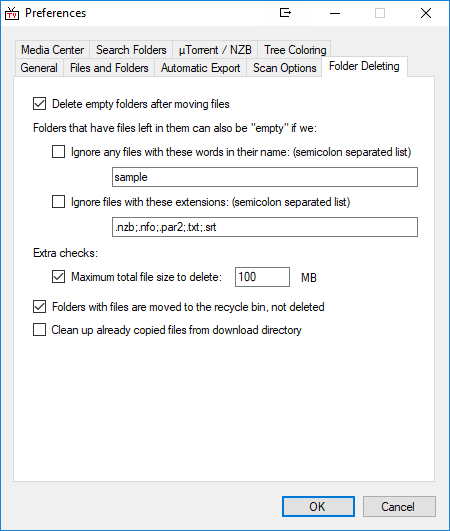
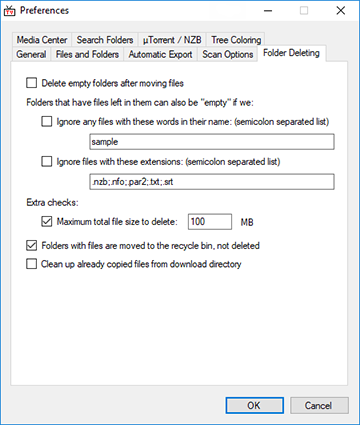
Added Folder Deleting to options.md

diff --git a/options.md b/options.md
@@ -183,6 +183,20 @@ Ticking the "TXT" box in the "All Shows" section of the panel will save a TXT fi
 [Return to Preferences](#preferences)&nbsp;&#9670;&nbsp;[Return to Top]()
 
 ### Folder Deleting
+![Preferences>Options - The Folder Delete tab](images/options/preferences-folder-del-01.png){:.pic-l}
+This tab is all about TV Rename tidying up after itself.
+
+When downloading video from the internet its quite common to get .nfo files, screen grabs, sample video, text-art files and the like bundled with the download.
+
+TV Rename automatically takes care of the video file and any others you media play may require, renaming them and copying or moving them to your "Media Library".
+
+The settings in this tab take care of the rest.
+
+The flow through this tab is pretty self explanatory, start by ticking the "Delete empty folders..." box to enable the action. The other settings are fairly obvious, tick the boxes and modify the text as required.
+
+If you use the copy option to update your library then ticking the "Clean up already copied..." box will delete the source files after the copy is complete.
+
+*Default: **All functionality disabled***
 
 {:.toplink}
 [Return to Preferences](#preferences)&nbsp;&#9670;&nbsp;[Return to Top]()
